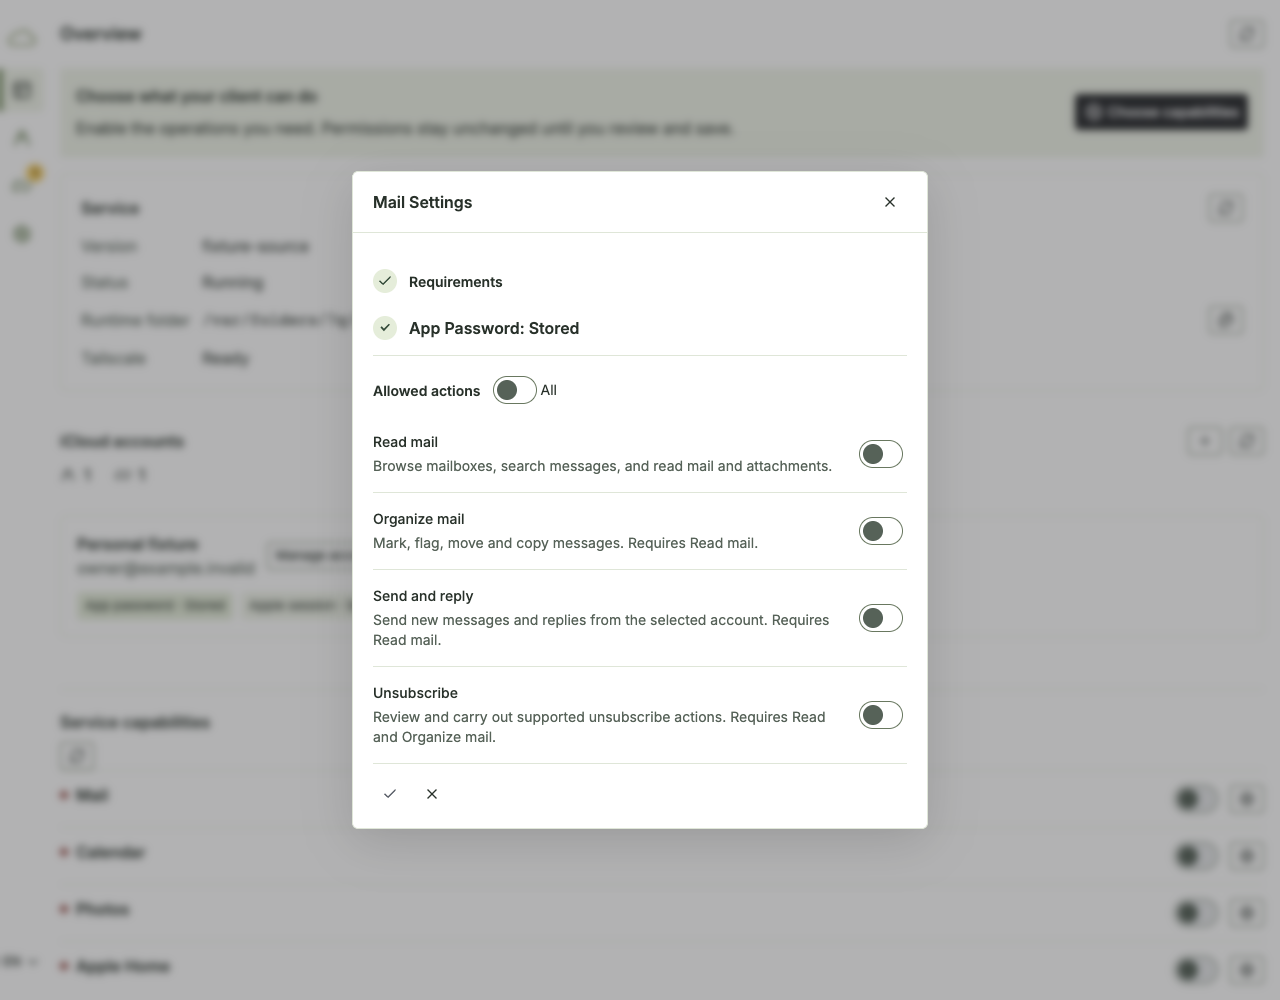
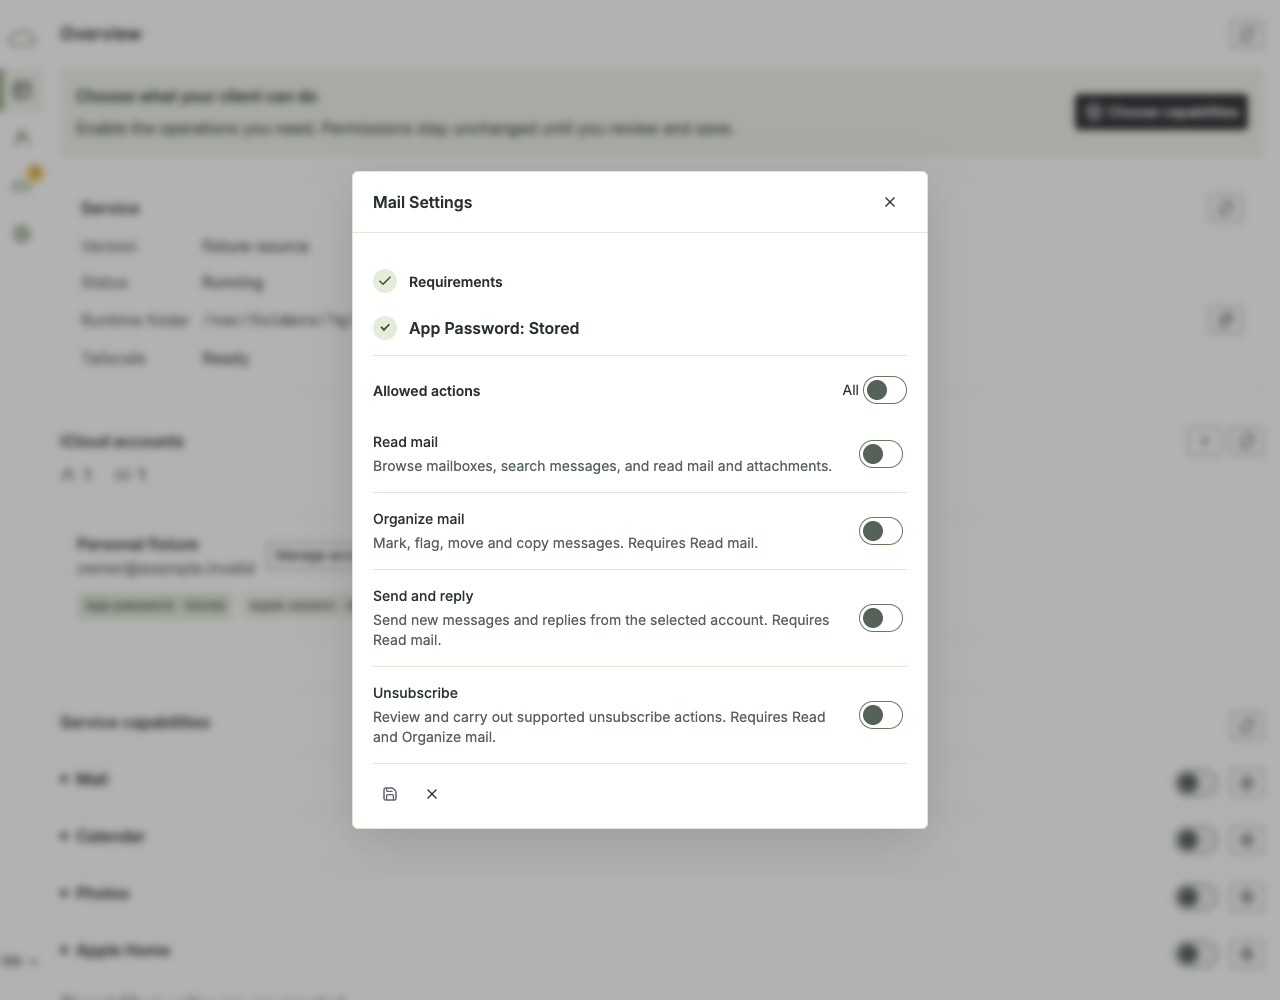
Isolate transient toast layer and correct capability controls

diff --git a/apps/e2e/browser/uiux-recovery-flow.ts b/apps/e2e/browser/uiux-recovery-flow.ts
@@ -12,7 +12,7 @@ try{const c=await b.newContext({viewport:{width:390,height:844},isMobile:true,ha
 await p.locator('.account-card').getByRole('button',{name:'Manage account',exact:true}).click();await p.getByRole('menuitem',{name:'Update app password',exact:true}).waitFor();a(await p.getByRole('menuitem').count()===3,'Readable account choices');await p.screenshot({path:out+'/16-touch-account-menu.png'});await p.keyboard.press('Escape');a(await p.locator('.account-card button').evaluate(n=>n===document.activeElement),'Escape returns menu focus');
 await p.locator('.account-card').getByRole('button',{name:'Manage account',exact:true}).click();await p.getByRole('menuitem',{name:'Update app password',exact:true}).click();const d=p.getByRole('dialog');await d.waitFor();await p.setViewportSize({width:320,height:320});await d.evaluate(async (el)=>{await Promise.all(el.getAnimations().map(animation=>animation.finished))});const close=d.getByRole('button',{name:'Close dialog',exact:true}),r1=await close.boundingBox();await d.locator('.modal-content').evaluate(n=>n.scrollTop=n.scrollHeight);const r2=await close.boundingBox();a(Math.abs(r1.y-r2.y)<1,'Dialog close stays fixed while content scrolls');a(r2.y>=0&&r2.y+r2.height<=320,'Close remains in viewport');await d.getByRole('button',{name:'Cancel',exact:true}).scrollIntoViewIfNeeded();a(await d.getByRole('button',{name:'Cancel',exact:true}).isVisible(),'Footer reachable');await close.click();
 await p.setViewportSize({width:390,height:844});await p.goto(origin+'/icloud/admin');await p.getByRole('button',{name:'Configure Mail',exact:true}).click();await p.getByRole('dialog').waitFor();a(await p.locator('dialog[open] .module-action-row .control').count()>=4,'Module uses catalog Switch');await p.getByRole('button',{name:'Close dialog',exact:true}).click();
-await p.goto(origin+'/icloud/admin/accounts');await p.getByRole('button',{name:'Add an iCloud account',exact:true}).click();const rejected=p.getByRole('dialog');await rejected.waitFor();await rejected.locator('#credential-user').fill('invalid@example.invalid');await rejected.locator('#credential-password').fill('invalid-dummy');await rejected.getByRole('button',{name:'Verify and save account',exact:true}).click();await rejected.getByTestId('toast').waitFor();await p.waitForTimeout(250);const retry=await rejected.getByRole('button',{name:'Verify and save account',exact:true}).boundingBox(),toast=await rejected.getByTestId('toast').boundingBox();a(retry!.y+retry!.height<toast!.y,'Notification does not cover retry');a(await rejected.locator('#credential-password').inputValue()==='','Rejected secret cleared');await rejected.getByRole('button',{name:'Cancel',exact:true}).click();
+await p.goto(origin+'/icloud/admin/accounts');await p.getByRole('button',{name:'Add an iCloud account',exact:true}).click();const rejected=p.getByRole('dialog');await rejected.waitFor();await rejected.locator('#credential-user').fill('invalid@example.invalid');await rejected.locator('#credential-password').fill('invalid-dummy');await rejected.getByRole('button',{name:'Verify and save account',exact:true}).click();await rejected.getByTestId('toast').waitFor();await p.waitForTimeout(250);const retry=await rejected.getByRole('button',{name:'Verify and save account',exact:true}).boundingBox(),toast=await rejected.getByTestId('toast').boundingBox();a(await rejected.locator('.modal-content').evaluate(n=>getComputedStyle(n).paddingBottom)==='16px','Toast does not reserve modal layout space');await rejected.getByTestId('toast').getByRole('button').click();a(await rejected.locator('#credential-password').inputValue()==='','Rejected secret cleared');await rejected.getByRole('button',{name:'Cancel',exact:true}).click();
 for(const path of ['/icloud/admin','/icloud/admin/accounts','/icloud/admin/connections','/icloud/admin/system']){await p.goto(origin+path);await p.locator('.page-heading').waitFor();a(await p.evaluate(()=>document.documentElement.scrollWidth<=innerWidth),'Touch wrapping '+path);}
 await c.addCookies([{name:'PARAGLIDE_LOCALE',value:'zh-TW',url:origin}]);await p.goto(origin+'/icloud/admin/accounts');await p.locator('.account-card').waitFor();a(await p.locator('html').getAttribute('lang')==='zh-TW','Traditional Chinese rendered');a(await p.evaluate(()=>document.documentElement.scrollWidth<=innerWidth),'Chinese wrapping');a((await p.locator('.nav-language .trigger').textContent()).includes('繁'),'Locale indicator matches Chinese');await p.screenshot({path:out+'/17-touch-chinese-accounts.png'});
 a(errors.length===0,'No page errors');await writeFile(out+'/acceptance.json',JSON.stringify({checks,errors},null,2));console.log(JSON.stringify({checks,errors}));

diff --git a/apps/e2e/browser/toast-layer-flow.ts b/apps/e2e/browser/toast-layer-flow.ts
@@ -1,0 +1,12 @@
+/** Transient root notification acceptance; fake owner/providers only. */
+import{join,resolve}from'node:path';import{pathToFileURL}from'node:url';import{mkdir}from'node:fs/promises';
+const args=process.argv.slice(2),option=(key:string)=>args[args.indexOf(key)+1];
+const{chromium}=await import(pathToFileURL(resolve(option('--playwright-module'))).href);
+const output=option('--output');await mkdir(output,{recursive:true});const worker=Bun.spawn([process.execPath,join(import.meta.dir,'admin-fixture.worker.ts')],{stdout:'pipe',stderr:'pipe'});let browser:any,checks=0;const a=(v:unknown,m:string)=>{if(!v)throw Error(m);checks++};
+try{const reader=worker.stdout.getReader(),first=await reader.read();reader.releaseLock();const origin=new TextDecoder().decode(first.value).trim();browser=await chromium.launch({headless:true,executablePath:option('--chrome')});const c=await browser.newContext({extraHTTPHeaders:{'x-fixture-session':'owner'},viewport:{width:1280,height:1000}}),p=await c.newPage();const errors:string[]=[];p.on('pageerror',(e:Error)=>errors.push(e.message));await p.goto(origin+'/icloud/admin');const cap=p.getByTestId('capabilities-card'),capHeader=await cap.locator('header').boundingBox(),refresh=await p.locator('#capabilities-refresh').boundingBox();a(refresh.x>capHeader.x+capHeader.width/2&&refresh.y>=capHeader.y&&refresh.y+refresh.height<=capHeader.y+capHeader.height+1,'Refresh aligned at header right');a(await cap.locator('.status-dot[data-state=unknown]').count()===4,'Disabled policy dots gray');await p.getByRole('button',{name:'Configure Mail',exact:true}).click();const d=p.getByRole('dialog',{name:'Mail Settings',exact:true});await d.waitFor();
+const initial=await d.boundingBox();a(await d.locator('[data-ui-icon=save]').count()===1,'Disk save icon');a(await d.locator('.modal-content .toast-region').count()===0,'Modal contains no toaster');a(await p.locator('.toast-layer').count()===1,'Single root toast host');a(await d.locator('.modal-content').evaluate((el:HTMLElement)=>getComputedStyle(el).paddingBottom)==='20px','Normal padding without notification reserve');
+await d.getByRole('button',{name:'Close dialog',exact:true}).click();await c.request.get(origin+'/fixture/status-fail');await p.locator('#capabilities-refresh').click();const toast=p.getByTestId('toast').first();await toast.waitFor();await c.request.get(origin+'/fixture/status-recover');await p.getByRole('button',{name:'Configure Mail',exact:true}).click();await d.waitFor();a(await p.locator('.toast-layer').evaluate((el:HTMLElement)=>el.matches(':popover-open')),'Root toast in top layer');const during=await d.boundingBox();a(Math.abs(during.height-initial.height)<1&&Math.abs(during.y-initial.y)<1,'Toast causes no modal geometry change');
+await p.waitForTimeout(200);await p.screenshot({path:join(output,'toast-desktop.png')});await toast.getByRole('button').click({timeout:3000});await toast.waitFor({state:'hidden'});a(true,'Root toast remains dismissible over modal');await d.getByRole('button',{name:'Close dialog',exact:true}).click();
+await c.request.get(origin+'/fixture/status-fail');await p.locator('#capabilities-refresh').click();await toast.waitFor();await toast.hover();await p.waitForTimeout(5100);a(await toast.isVisible(),'Hover pauses automatic dismissal');const started=Date.now();await p.mouse.move(0,0);await toast.waitFor({state:'hidden',timeout:6500});a(Date.now()-started>=4500,'Five-second auto dismissal');await c.request.get(origin+'/fixture/status-recover');
+await p.setViewportSize({width:390,height:844});await p.getByRole('button',{name:'Configure Mail',exact:true}).click();await p.waitForTimeout(200);const mobile=await d.boundingBox();a(Math.abs(mobile.y+mobile.height-844)<2,'Mobile sheet stays bottom aligned');a(await d.locator('.modal-content').evaluate((el:HTMLElement)=>getComputedStyle(el).paddingBottom)==='16px','Mobile padding has no toast gap');await p.screenshot({path:join(output,'modal-mobile.png')});a(errors.length===0,'No page errors');await Bun.write(join(output,'result.json'),JSON.stringify({checks,status:'passed',fixtureOnly:true},null,2));console.log(JSON.stringify({checks,status:'passed'}));
+}finally{await browser?.close();worker.kill();await worker.exited;}

diff --git a/packages/ui/src/components/Toaster.svelte b/packages/ui/src/components/Toaster.svelte
@@ -8,10 +8,21 @@
   import type { UiCopy } from "../contracts.js";
   import type { ToastCenter } from "../toast-state.svelte.js";
   const { t } = getContext<UiCopy>("copy");
-  let {
-    center,
-    embedded = false,
-  }: { center: ToastCenter; embedded?: boolean } = $props();
+  let { center }: { center: ToastCenter } = $props();
+  let mounted = $state(false);
+  let originalParent: Node | null = null;
+  const timers = new Map<number, ReturnType<typeof setTimeout>>();
+  const paused = new Set<number>();
+  function pause(id:number) { clearTimeout(timers.get(id)); timers.delete(id); paused.add(id); }
+  function resume(id:number) { paused.delete(id); schedule(id); }
+  function schedule(id:number) { if(!timers.has(id) && !paused.has(id)) timers.set(id,setTimeout(()=>{timers.delete(id);void dismiss(id);},5000)); }
+  $effect(()=>{if(!mounted)return;const ids=center.items.map(item=>item.id);for(const id of ids)schedule(id);for(const [id,timer] of timers)if(!ids.includes(id)){clearTimeout(timer);timers.delete(id);paused.delete(id);}});
+  $effect(()=>{const dialogs=center.dialogs;if(!mounted)return;void tick().then(()=>{if(!mounted)return;host.hidePopover();
+      // Native modal inertness requires a descendant host. The popover itself
+      // stays in the browser top layer, outside every layout and scrollport.
+      const dialog = Array.from(document.querySelectorAll<HTMLDialogElement>('dialog[open]')).at(-1);
+      (dialog ?? originalParent)?.appendChild(host);
+      host.showPopover();});});
   let host: HTMLDivElement;
   async function dismiss(id: number) {
     const focused = document.activeElement;
@@ -33,6 +44,9 @@
   let viewportBottom = $state(0),
     reducedMotion = $state(false);
   onMount(() => {
+    originalParent = host.parentNode;
+    mounted = true;
+    host.showPopover();
     const viewport = window.visualViewport,
       media = window.matchMedia("(prefers-reduced-motion: reduce)");
     const update = () => {
@@ -53,6 +67,10 @@
     window.addEventListener("resize", update);
     media.addEventListener("change", motion);
     return () => {
+      mounted = false;
+      for(const timer of timers.values())clearTimeout(timer);timers.clear();
+      host.hidePopover();
+      originalParent?.appendChild(host);
       viewport?.removeEventListener("resize", update);
       viewport?.removeEventListener("scroll", update);
       window.removeEventListener("resize", update);
@@ -63,15 +81,21 @@
 
 <div
   bind:this={host}
+  popover="manual"
+  class="toast-layer"
   style:--toast-region-bottom={`calc(${viewportBottom}px + ${spacing[4]})`}
 >
   <ToastRegion
     label={t("notifications")}
-    open={embedded || center.dialogs === 0}
+    open={true}
   >
     {#each center.items as item (item.id)}<div
         data-testid="toast"
         data-toast-id={item.id}
+        onpointerenter={()=>pause(item.id)}
+        onpointerleave={()=>resume(item.id)}
+        onfocusin={()=>pause(item.id)}
+        onfocusout={()=>resume(item.id)}
         animate:flip={{ duration: reducedMotion ? 0 : 180 }}
         in:fly={{
           y: reducedMotion ? 0 : 16,

diff --git a/packages/ui/src/components/Modal.svelte b/packages/ui/src/components/Modal.svelte
@@ -3,7 +3,6 @@
   import { getContext, onMount, tick, untrack } from "svelte";
   import type { Snippet } from "svelte";
   import type { UiCopy } from "../contracts.js";
-  import Toaster from "./Toaster.svelte";
   import type { ToastCenter } from "../toast-state.svelte.js";
   let {
     open,
@@ -29,41 +28,6 @@
     const bounds = element.getBoundingClientRect();
     return event.target === element && (event.clientX < bounds.left || event.clientX > bounds.right || event.clientY < bounds.top || event.clientY > bounds.bottom);
   }
-  let notificationSpace = $state(0);
-  $effect(() => {
-    const visible = open;
-    const messages = toast?.items.length ?? 0;
-    if (!visible || !messages) {
-      notificationSpace = 0;
-      return;
-    }
-    let cancelled = false;
-    let observer: ResizeObserver | undefined;
-    tick().then(() => {
-      if (cancelled) return;
-      const region = element?.querySelector<HTMLElement>('.toast-region');
-      if (!region) return;
-      const measure = () => {
-        notificationSpace = region.offsetHeight;
-        tick().then(() => {
-          if (cancelled) return;
-          const content = element.querySelector<HTMLElement>('.modal-content');
-          const actions = content?.querySelectorAll<HTMLElement>('.actions');
-          const footer = actions?.[actions.length - 1];
-          if (!content || !footer) return;
-          const notification = region.getBoundingClientRect();
-          const controls = footer.getBoundingClientRect();
-          if (controls.bottom > notification.top && controls.top < notification.bottom) {
-            content.scrollTop += controls.bottom - notification.top + parseFloat(getComputedStyle(content).paddingTop);
-          }
-        });
-      };
-      observer = new ResizeObserver(measure);
-      observer.observe(region);
-      measure();
-    });
-    return () => { cancelled = true; observer?.disconnect(); };
-  });
   $effect(() => {
     if (open && element)
       untrack(async () => {
@@ -113,7 +77,6 @@
     if (dismiss && !busy) onclose();
   }}
   aria-labelledby={titleId}
-  style:--modal-notification-space={`${notificationSpace}px`}
   oncancel={(e) => {
     e.preventDefault();
     if (!busy) onclose();
@@ -131,10 +94,7 @@
     />
   </header>
   <div class="modal-content">
-    {#if toast && open}<Toaster
-        center={toast}
-        embedded
-      />{/if}{@render children()}
+    {@render children()}
   </div>
 </dialog>
 
@@ -174,7 +134,7 @@
     flex: 1;
     min-height: 0;
     padding: 1.25rem;
-    padding-bottom: calc(1.25rem + var(--modal-notification-space, 0px));
+    padding-bottom: 1.25rem;
     overflow: auto;
   }
   dialog :global(.card) {

diff --git a/apps/e2e/browser/capability-settings-flow.ts b/apps/e2e/browser/capability-settings-flow.ts
@@ -20,7 +20,7 @@ try{
  await page.waitForTimeout(180);await page.screenshot({path:join(output,'mail-pending.png')});
  const colors=await modal.locator('.module-action-row .track').first().evaluate((el:HTMLElement)=>({warning:getComputedStyle(el).getPropertyValue('--dz-color-warning').trim(),bg:getComputedStyle(el).backgroundColor,thumb:getComputedStyle(el.firstElementChild!).backgroundColor}));assert(colors.thumb==='rgb(121, 89, 22)','Pending uses semantic warning color');
  const save=modal.getByRole('button',{name:'Save capabilities',exact:true});assert(await save.locator('span.button-content>span').count()===0,'Save icon only');assert(await save.getAttribute('data-appearance')==='quiet','Save borderless');
- const heading=await modal.locator('.allowed-actions-heading').boundingBox(),allBounds=await all.locator('..').boundingBox();assert(allBounds.x<heading.x+heading.width/2,'All on left');
+ const heading=await modal.locator('.allowed-actions-heading').boundingBox(),allBounds=await all.locator('..').boundingBox();assert(allBounds.x>heading.x+heading.width/2,'All control on right');const order=await all.locator('..').evaluate((el:HTMLElement)=>{const track=el.querySelector('.track')!,label=el.lastElementChild!;return label.getBoundingClientRect().right<=track.getBoundingClientRect().left});assert(order,'All label precedes switch');
  assert(await modal.evaluate((el:HTMLElement)=>getComputedStyle(el,'::backdrop').backdropFilter)==='blur(4px)','Backdrop blurred');
  page.once('dialog',(dialog:any)=>dialog.accept());await modal.getByRole('button',{name:'Cancel',exact:true}).click();assert(!await page.getByRole('switch',{name:'Enable module Mail',exact:true}).isChecked(),'Cancel preserves saved state');
  await page.getByRole('button',{name:'Configure Mail',exact:true}).click();await modal.getByRole('switch',{name:'Read mail',exact:true}).locator('..').click();await save.click();await modal.waitFor({state:'hidden'});assert(await page.getByRole('switch',{name:'Enable module Mail',exact:true}).isChecked(),'Explicit save persists');

diff --git a/packages/ui/src/modal-styles.ts b/packages/ui/src/modal-styles.ts
@@ -11,6 +11,8 @@ export const modalStyles = `
 .module-requirements .step .marker{width:${spacing[6]};height:${spacing[6]};color:${semanticColors.textMuted}}
 .module-requirements .step.done .marker{color:${semanticColors.positive};background:${semanticColors.selected}}
 .module-requirements .step[data-step-state=error] .marker,.module-requirements .step[data-step-state=todo] .marker{color:${semanticColors.critical};background:${semanticColors.criticalSurface}}
+.all-actions-switch .control{flex-direction:row-reverse}
+.toast-layer[popover]{position:fixed;inset:0;margin:0;padding:0;border:0;background:transparent;color:inherit;width:100%;height:100%;overflow:visible;pointer-events:none}
 .requirements-heading{justify-content:flex-start!important}
 .draft-switch[data-pending=true] .control .track{background:${semanticColors.warningSurface}!important;border-color:${semanticColors.warning}!important}
 .draft-switch[data-pending=true] .control .track .thumb{background:${semanticColors.warning}!important}
@@ -19,7 +21,7 @@ dialog[data-dz-modal]::backdrop{-webkit-backdrop-filter:blur(${spacing[1]});back
 @keyframes dz-modal-rise{from{transform:translateY(100%)}to{transform:none}}
 @media(max-width:700px){
  dialog[data-dz-modal][open]{width:100%;max-width:100%;margin: auto 0 0;inset-inline:0;max-height:calc(100dvh - ${spacing[4]} - env(safe-area-inset-top,0px));border-radius:${radius.surface} ${radius.surface} 0 0;animation:dz-modal-rise 180ms ease-out}
- dialog[data-dz-modal]>.modal-content{padding-bottom:calc(${spacing[4]} + var(--modal-notification-space,0px) + env(safe-area-inset-bottom,0px))}
+ dialog[data-dz-modal]>.modal-content{padding-bottom:calc(${spacing[4]} + env(safe-area-inset-bottom,0px))}
  dialog[data-dz-modal]>header{padding-inline-start:max(${spacing[4]},env(safe-area-inset-left,0px));padding-inline-end:max(${spacing[4]},env(safe-area-inset-right,0px))}
 }
 @media(prefers-reduced-motion:reduce){dialog[data-dz-modal][open]{animation:none}}

diff --git a/packages/ui/src/components/ActionButton.svelte b/packages/ui/src/components/ActionButton.svelte
@@ -2,6 +2,7 @@
   import type { HTMLButtonAttributes } from "svelte/elements";
   import Button from "../design-system/Button.svelte";
   import DesignIcon from "./DesignIcon.svelte";
+  import SaveIcon from "./SaveIcon.svelte";
   import ProjectIcon from "./Icon.svelte";
   import type { IconName } from "../design-system/icons.js";
   let {
@@ -17,7 +18,7 @@
   }: Omit<HTMLButtonAttributes, "class" | "children"> & {
     class?: string;
     label: string;
-    icon: IconName | "passkey";
+    icon: IconName | "passkey" | "save";
     variant?: "primary" | "secondary";
     appearance?: "default" | "quiet";
     size?: "normal" | "compact";
@@ -60,7 +61,7 @@
     title={label}
     data-danger={danger || undefined}
   >
-    {#if icon === "passkey"}<ProjectIcon name="passkey" />{:else}<DesignIcon name={icon} size={size === "compact" ? "1rem" : "1.25rem"} />{/if}
+    {#if icon === "save"}<SaveIcon />{:else if icon === "passkey"}<ProjectIcon name="passkey" />{:else}<DesignIcon name={icon} size={size === "compact" ? "1rem" : "1.25rem"} />{/if}
     {#if showLabel}<span>{label}</span>{/if}
   </Button>
   {#if !showLabel}<span class="action-hint" aria-hidden="true">{label}</span>{/if}

diff --git a/apps/studio/src/components/AllowedActions.svelte b/apps/studio/src/components/AllowedActions.svelte
@@ -11,7 +11,7 @@
 <section class="module-actions" aria-label={t('moduleActionsShort')}>
  <header class="module-section-heading allowed-actions-heading">
   <h3>{t('moduleActionsShort')}</h3>
-  <DraftSwitch label={t('allActionsShort')} aria-label={t('toggleAllActions')} pending={changed} checked={allOn} disabled={disabled||!editable.length} onchange={event=>ontoggle(event.currentTarget.checked)}/>
+  <span class="all-actions-switch"><DraftSwitch label={t('allActionsShort')} aria-label={t('toggleAllActions')} pending={changed} checked={allOn} disabled={disabled||!editable.length} onchange={event=>ontoggle(event.currentTarget.checked)}/></span>
  </header>
  <ul class="module-action-list">
  {#each fields as field}<AllowedAction {id} {field} {definition} checked={!!draft[field.id]} pending={!!draft[field.id]!==!!saved[field.id]} disabled={disabled||field.available===false||(dependencies[field.id]??[]).some(parent=>!editable.includes(parent))} onchange={value=>ontoggle(value,field.id)}/>{:else}<li>{t('emptyValue')}</li>{/each}

diff --git a/apps/studio/src/components/CapabilityConfig.svelte b/apps/studio/src/components/CapabilityConfig.svelte
@@ -51,7 +51,7 @@
   <CapabilityRequirements {definition} {requirementIdentity} {credentialReady} {credentialKnown} {requirementsReady} {requirementUnknown} onverified={value => { permissionReady = value; }} />
   <AllowedActions {id} fields={metadata?.fields ?? []} {definition} {draft} saved={id ? model.saved[id] ?? {} : {}} {editable} {dependencies} {allOn} disabled={model.busy || !policyKnown} ontoggle={toggle} />
   <div class="actions">
-    <ActionButton appearance="quiet" class="primary" label={t('saveModule')} icon="check" disabled={model.busy || !canSave || !model.changes.length} onclick={() => void model.run(save, 'workingPolicy')} />
+    <ActionButton appearance="quiet" class="primary" label={t('saveModule')} icon="save" disabled={model.busy || !canSave || !model.changes.length} onclick={() => void model.run(save, 'workingPolicy')} />
     <ActionButton appearance="quiet" label={t('cancel')} icon="close" disabled={model.busy} onclick={close} />
   </div>
 </Modal>

diff --git a/apps/studio/src/components/CapabilityCard.svelte b/apps/studio/src/components/CapabilityCard.svelte
@@ -13,7 +13,7 @@
 </script>
         <div class="module-summary">
           <div>
-            <h3 class="capability-title"><StatusMarker dot state={!policy || model.dashboardFailed ? 'unknown' : Object.values(policy).some(Boolean) ? 'ready' : 'missing'} label={t(!policy || model.dashboardFailed ? 'unknownValue' : Object.values(policy).some(Boolean) ? 'moduleEnabled' : 'moduleDisabled')}/>{module.title}</h3>
+            <h3 class="capability-title"><StatusMarker dot state={!policy || model.dashboardFailed ? 'unknown' : Object.values(policy).some(Boolean) ? 'ready' : 'unknown'} label={t(!policy || model.dashboardFailed ? 'unknownValue' : Object.values(policy).some(Boolean) ? 'moduleEnabled' : 'moduleDisabled')}/>{module.title}</h3>
             <div class="module-statuses">
               {#each Object.entries(policy ?? {}).filter(([, enabled]) => enabled) as [key]}
                 <Tag label={t(scopeCopy[module.id + "." + key] ?? key)} />

diff --git a/apps/studio/src/lib/action-styles.ts b/apps/studio/src/lib/action-styles.ts
@@ -19,7 +19,7 @@ export const actionStyles = `
 .page-title{display:flex;align-items:center;gap:${spacing[3]};flex-wrap:wrap;min-width:0}
 .readable-navigation{display:none}
 @media(max-width:700px),(hover:none){.readable-navigation{display:inline-flex}}
-.allowed-actions-heading{justify-content:flex-start!important}
+.service-capabilities>header{display:flex;align-items:center;justify-content:space-between;gap:${spacing[4]};margin-bottom:${spacing[3]}}
 .capability-title{display:flex;align-items:center;gap:${spacing[2]}}
 .module-summary{display:flex;justify-content:space-between;align-items:center;gap:${spacing[4]};flex-wrap:wrap;border-top:1px solid ${semanticColors.border};padding-block:${spacing[3]}}
 .module-summary h3{margin:0;padding:0;border:0}.module-summary .actions{margin:0}

diff --git a/packages/ui/src/components/SaveIcon.svelte b/packages/ui/src/components/SaveIcon.svelte
@@ -1,0 +1,18 @@
+<!-- Unmodified Lucide save geometry; source/version/license in assets/save-provenance.json. -->
+<svg
+  aria-hidden="true"
+  data-ui-icon="save"
+  xmlns="http://www.w3.org/2000/svg"
+  width="16"
+  height="16"
+  viewBox="0 0 24 24"
+  fill="none"
+  stroke="currentColor"
+  stroke-width="2"
+  stroke-linecap="round"
+  stroke-linejoin="round"
+>
+  <path d="M15.2 3a2 2 0 0 1 1.4.6l3.8 3.8a2 2 0 0 1 .6 1.4V19a2 2 0 0 1-2 2H5a2 2 0 0 1-2-2V5a2 2 0 0 1 2-2z" />
+  <path d="M17 21v-7a1 1 0 0 0-1-1H8a1 1 0 0 0-1 1v7" />
+  <path d="M7 3v4a1 1 0 0 0 1 1h7" />
+</svg>
